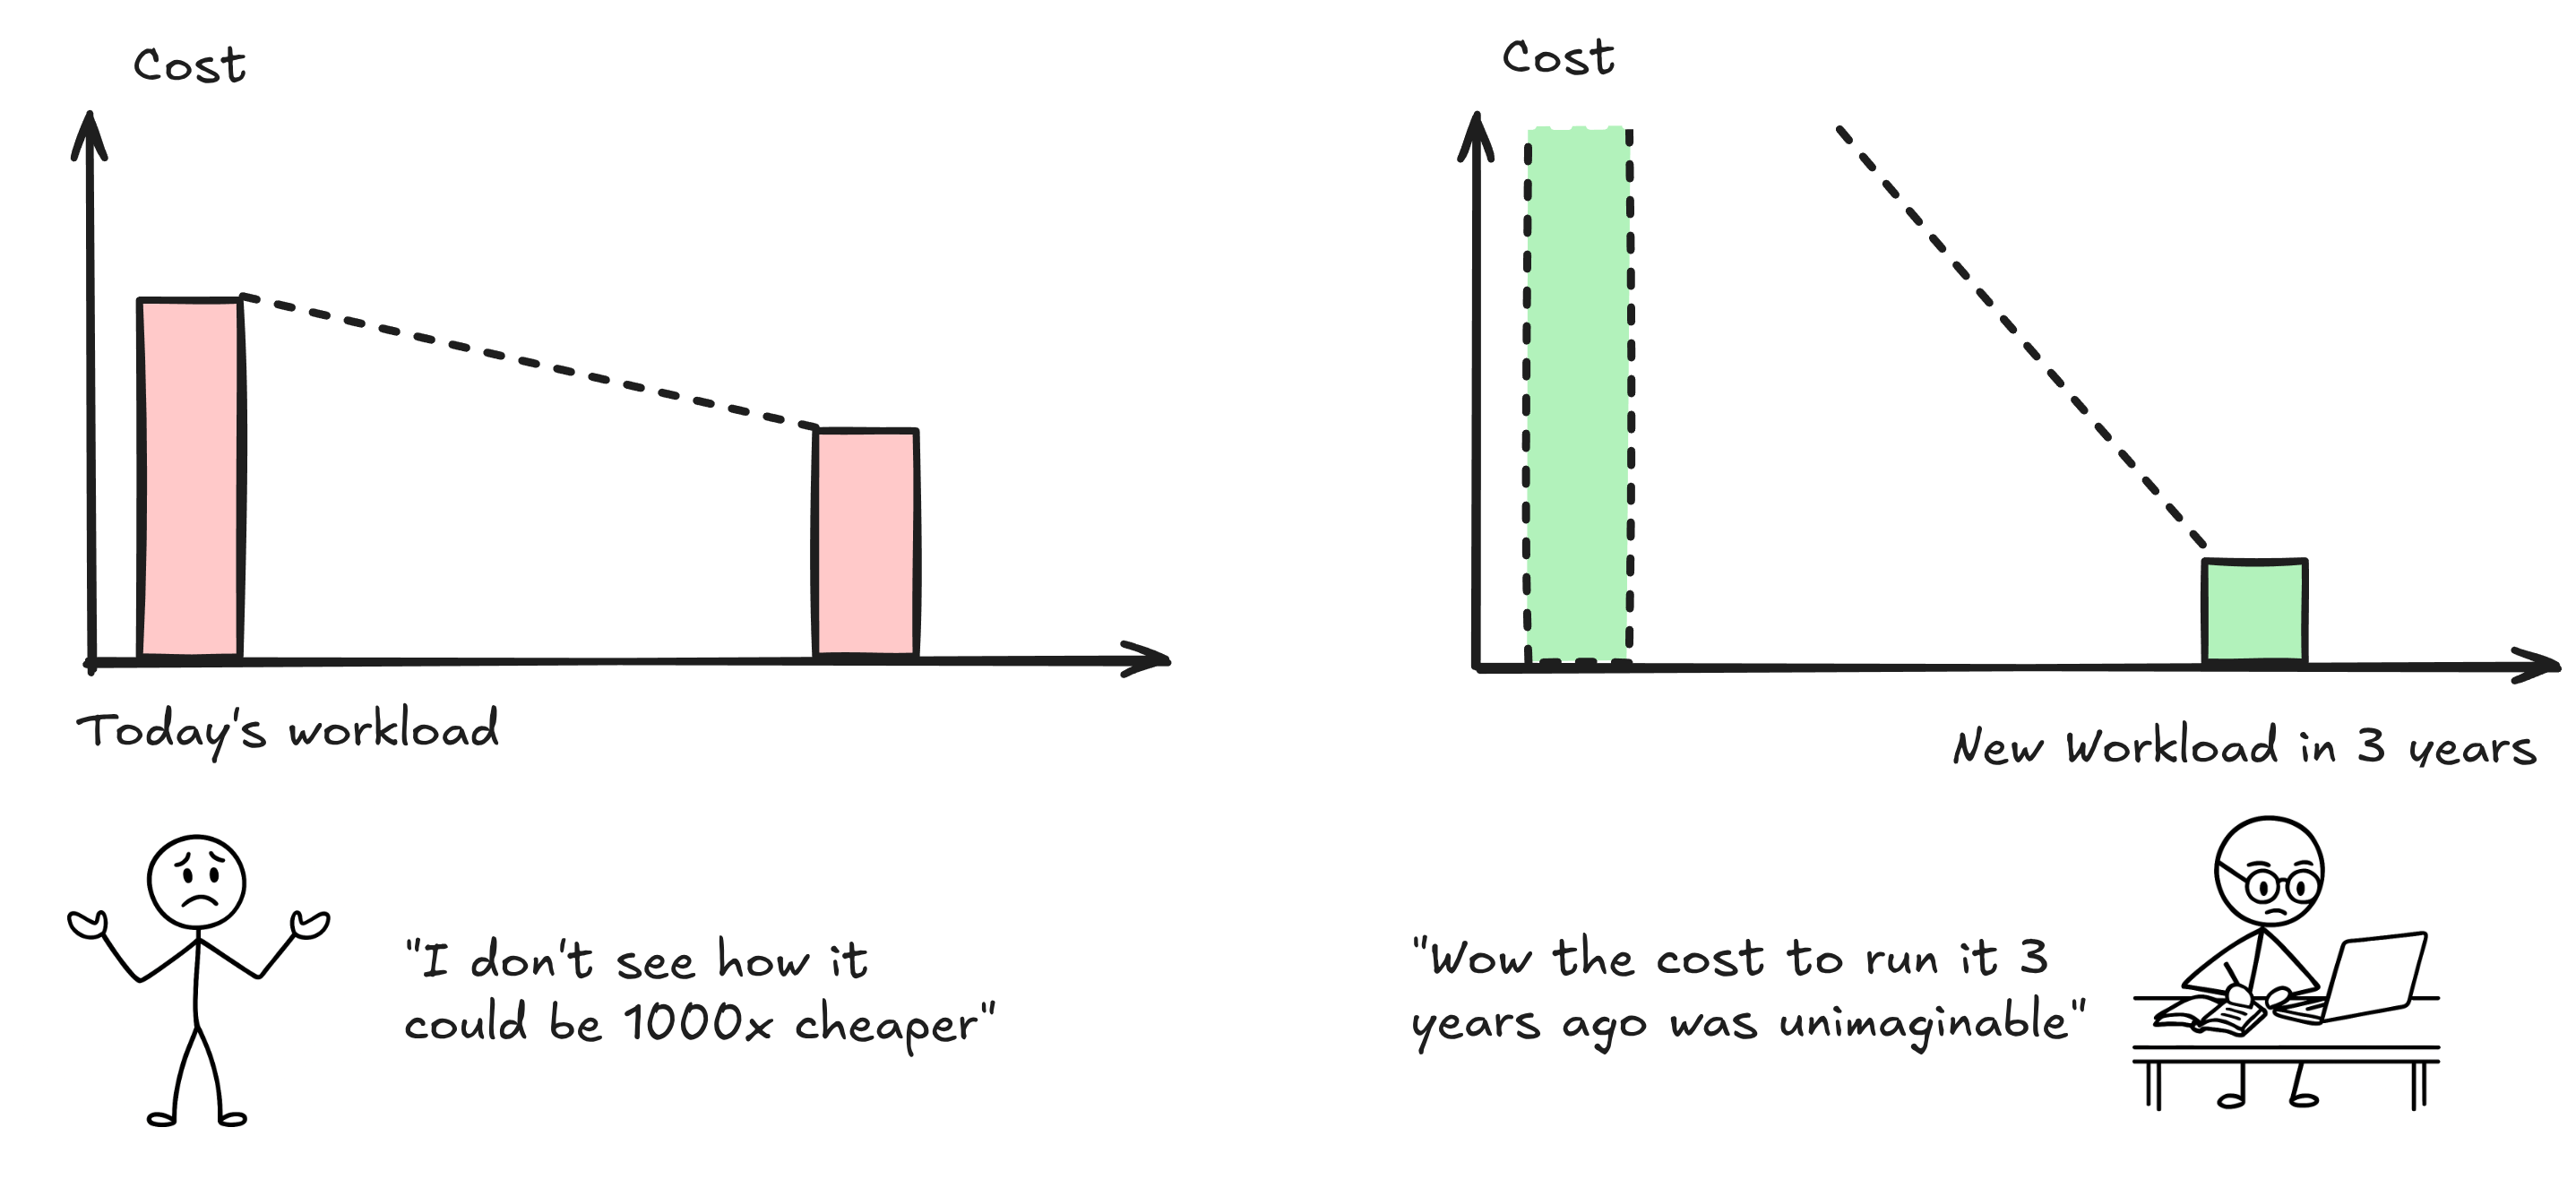
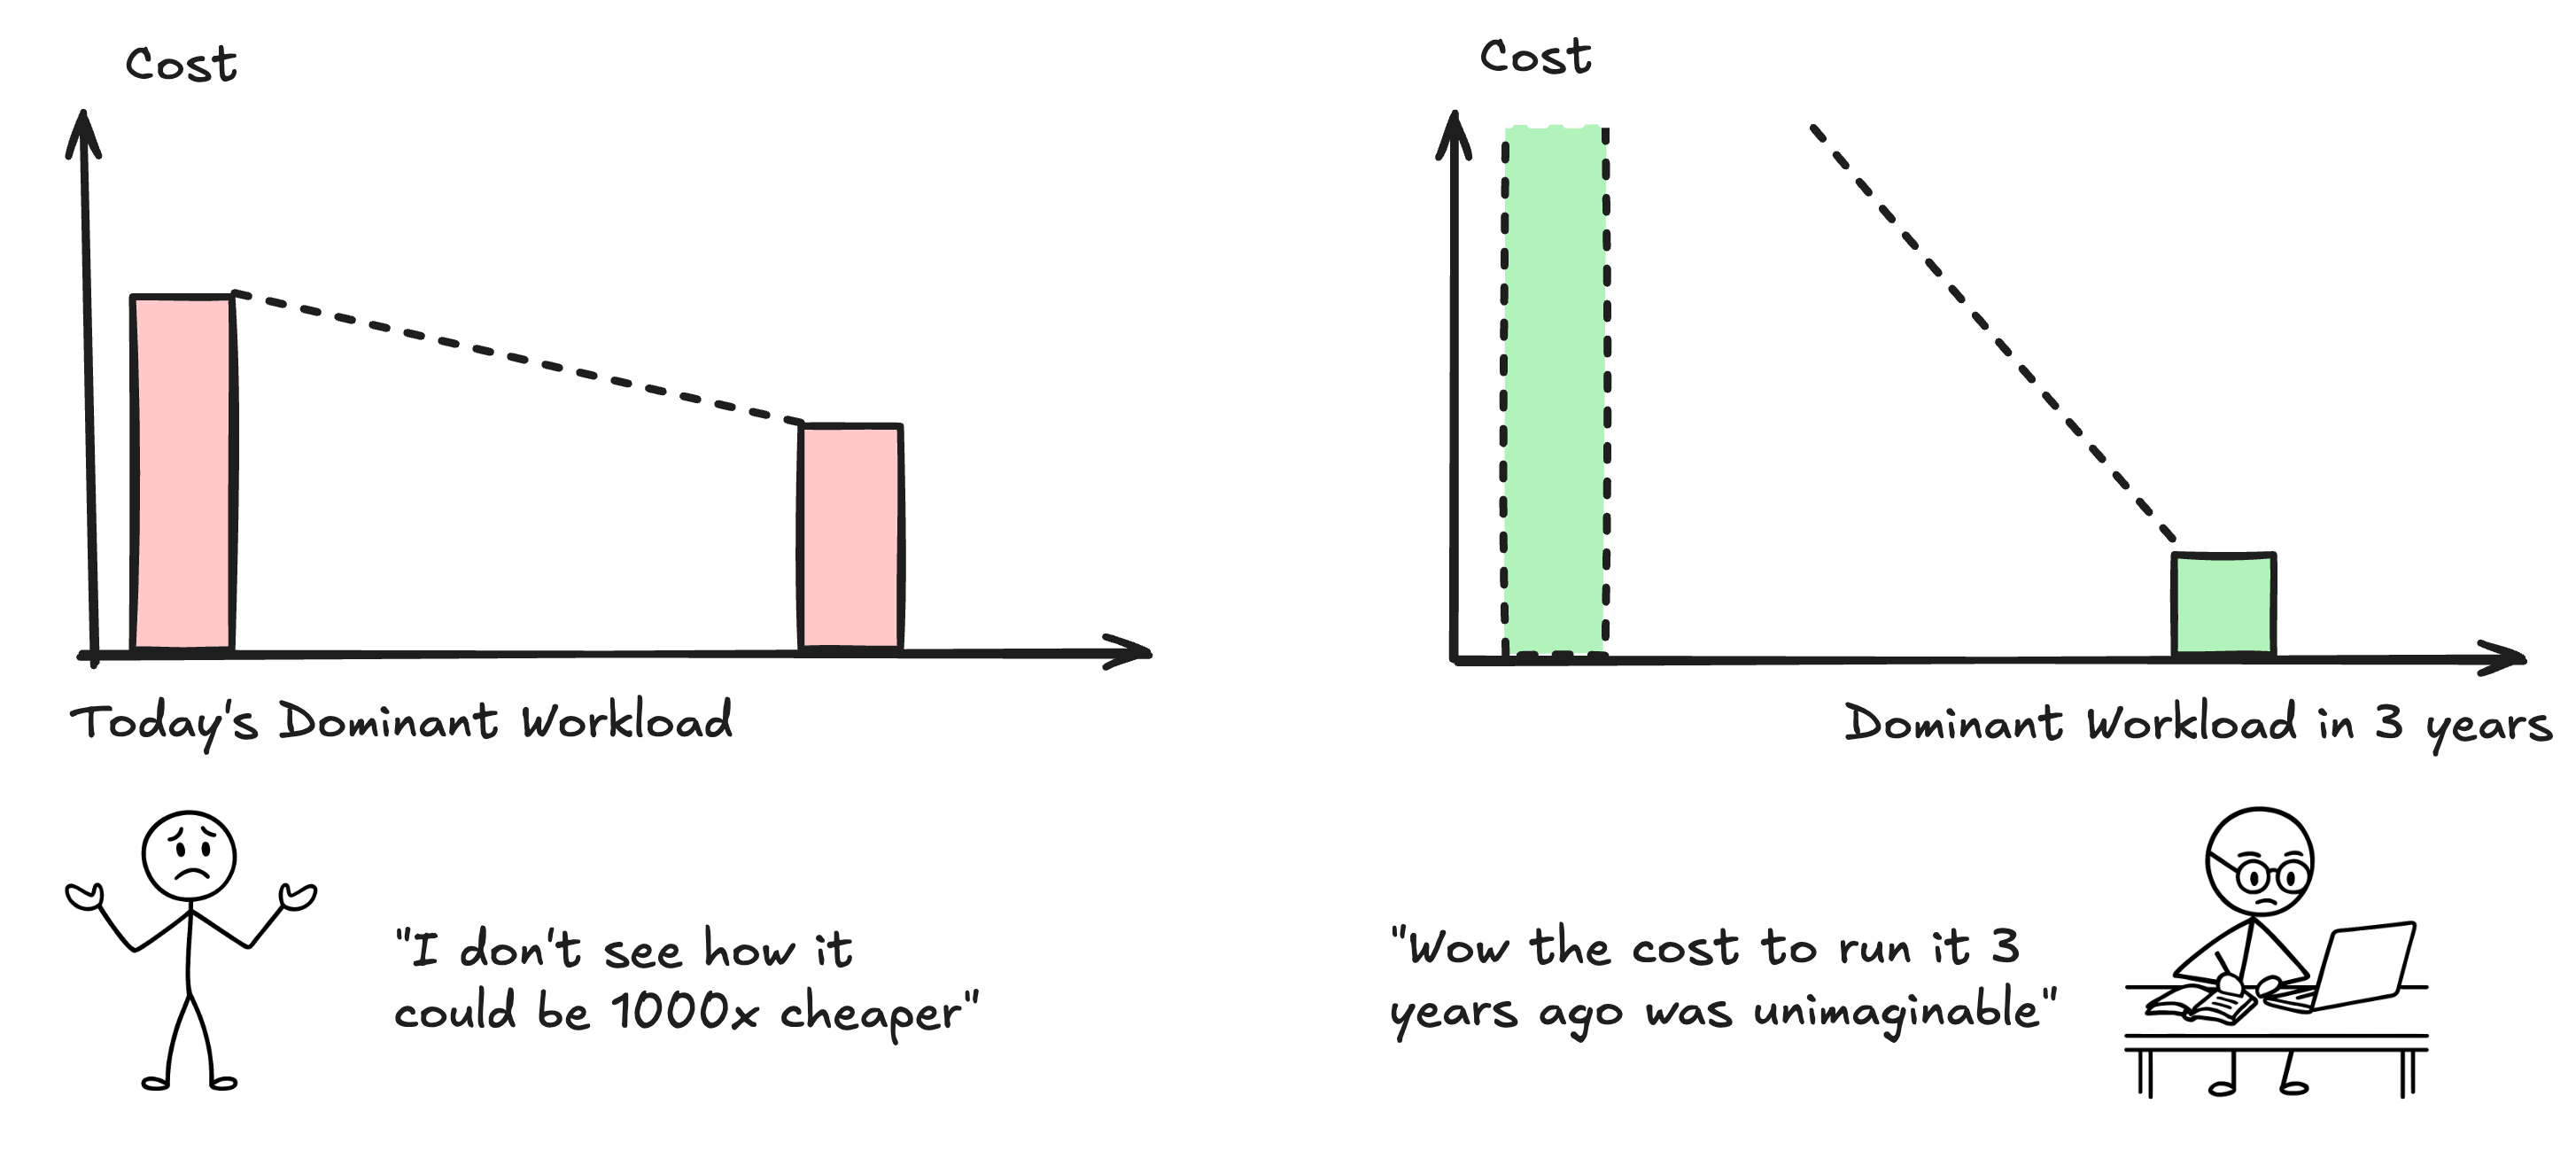
fix

diff --git a/blog.html b/blog.html
@@ -7,7 +7,7 @@ layout: default
   {% assign all_tags = site.posts | map: 'tags' | join: ',' | split: ',' | uniq | sort %}
   {% for tag in all_tags %}
     {% if tag != '' %}
-      <button class="tag-btn{% unless tag == 'Reading Note' %} active{% endunless %}" data-tag="{{ tag }}">{{ tag }}</button>
+      <button class="tag-btn{% unless tag == 'Society' %} active{% endunless %}" data-tag="{{ tag }}">{{ tag }}</button>
     {% endif %}
   {% endfor %}
 </div>
@@ -43,10 +43,10 @@ document.addEventListener('DOMContentLoaded', function() {
   const tagButtons = document.querySelectorAll('.tag-btn');
   const posts = document.querySelectorAll('.post');
 
-  // Hide Reading Note posts by default
+  // Hide Society posts by default
   posts.forEach(post => {
     const postTags = post.getAttribute('data-tags');
-    if (postTags.includes('Reading Note')) {
+    if (postTags.includes('Society')) {
       post.style.display = 'none';
     }
   });

diff --git a/_posts/2019-10-20-autograd.md b/_posts/2019-10-20-autograd.md
@@ -1,7 +1,7 @@
 ---
 layout: post
 title: Understand Autograd - A Bottom-up Tutorial
-tags: [System]
+tags: [Technology]
 ---
 
 You may have wondered how autograd actually works in imperative programming. In this post, I am going to explain it with hand-by-hand examples. Unlike other tutorials, this post is not borrowing one single line of codes from PyTorch or MXNet, but instead building everything from scratch.

diff --git a/_posts/2022-11-28-omniml.md b/_posts/2022-11-28-omniml.md
@@ -1,7 +1,7 @@
 ---
 layout: post
 title: Develop Hardware-Efficient AI without being a Hardware Expert
-tags: [System]
+tags: [Technology]
 ---
 
 > **Disclaimer:** This blog was originally published on OmniML's website in November 2022. Since the release of ChatGPT, ML industry has greatly shifted priorities and a lot of the previous assumptions have changed. Neverthless, I still kept the blog for historical reference to the pre-LLM-era view of ML systems.

diff --git a/_posts/2025-05-26-ML-software-system.md b/_posts/2025-05-26-ML-software-system.md
@@ -1,7 +1,7 @@
 ---
 layout: post
 title: Understanding LLM System with 3-layer Abstraction
-tags: [LLM, System]
+tags: [Technology]
 ---
 
 Performance optimization of LLM systems requires a thorough understanding of the full software stack. Somehow I couldn't find a comprehensive article that covers the big picture yet, so instead of waiting for one, I decided to write this article. This article is not a comprehensive review or best practice guide, but rather a sharing of my overall perspective on the current LLM system landscape.

diff --git a/_posts/2025-06-15-Intelligence-analysis.md b/_posts/2025-06-15-Intelligence-analysis.md
@@ -1,7 +1,7 @@
 ---
 layout: post
 title: Psychology of Intelligence Analysis
-tags: [Reading Note]
+tags: [Society]
 ---
 
 I have always wondered how information analysis works in government intelligence agencies or corporate business intelligence departments. A few weeks ago, I saw someone recommend [*Psychology of Intelligence Analysis*](https://www.ialeia.org/docs/Psychology_of_Intelligence_Analysis.pdf), so I read through it with the help of LLM tools. It's an interesting but somewhat verbose book that, in my opinion, could be well-summarized in two or three articles.

diff --git a/_posts/2025-07-20-AI-humanity.md b/_posts/2025-07-20-AI-humanity.md
@@ -1,7 +1,7 @@
 ---
 layout: post
 title: "Beyond AI Taking Jobs: When Economy Needs No Human Consumer"
-tags: [LLM, Society]
+tags: [Society]
 ---
 
 When people consider AI's threats, unemployment tops the list. This concern is valid, but it fails to distinguish AI from past technological advances, like mechanized textile production displacing hand-weavers, ATMs replacing bank tellers. The AI revolution is not "yet another technology advance". To explain it, we first examine the role of human consumers in today's economy.

diff --git a/_posts/2025-09-01-quantization.md b/_posts/2025-09-01-quantization.md
@@ -1,7 +1,7 @@
 ---
 layout: post
 title: A Dive into LLM Quantization
-tags: [LLM, System]
+tags: [Technology]
 ---
 
 Quantization has been adopted by many model providers to reduce inference cost. In my previous [LLM system blog](https://ralphmao.github.io/ML-software-system/), I briefly covered quantization. This article is a more detailed review of modern quantization formats and methods, plus an informal analysis of how quantization is done by leading AI labs.

diff --git a/_posts/2025-11-20-token-cost.md b/_posts/2025-11-20-token-cost.md
@@ -1,7 +1,7 @@
 ---
 layout: post
 title: The Next 1000x Cost Saving of LLM 
-tags: [LLM, System]
+tags: [Technology]
 ---
 
 LLM inference costs have dropped a lot over the past three years. At a comparable quality to early ChatGPT, average per-token prices are ~1000x lower, as observed in [an a16z blog](https://a16z.com/llmflation-llm-inference-cost/). That drop has been driven by advances across the stack: 